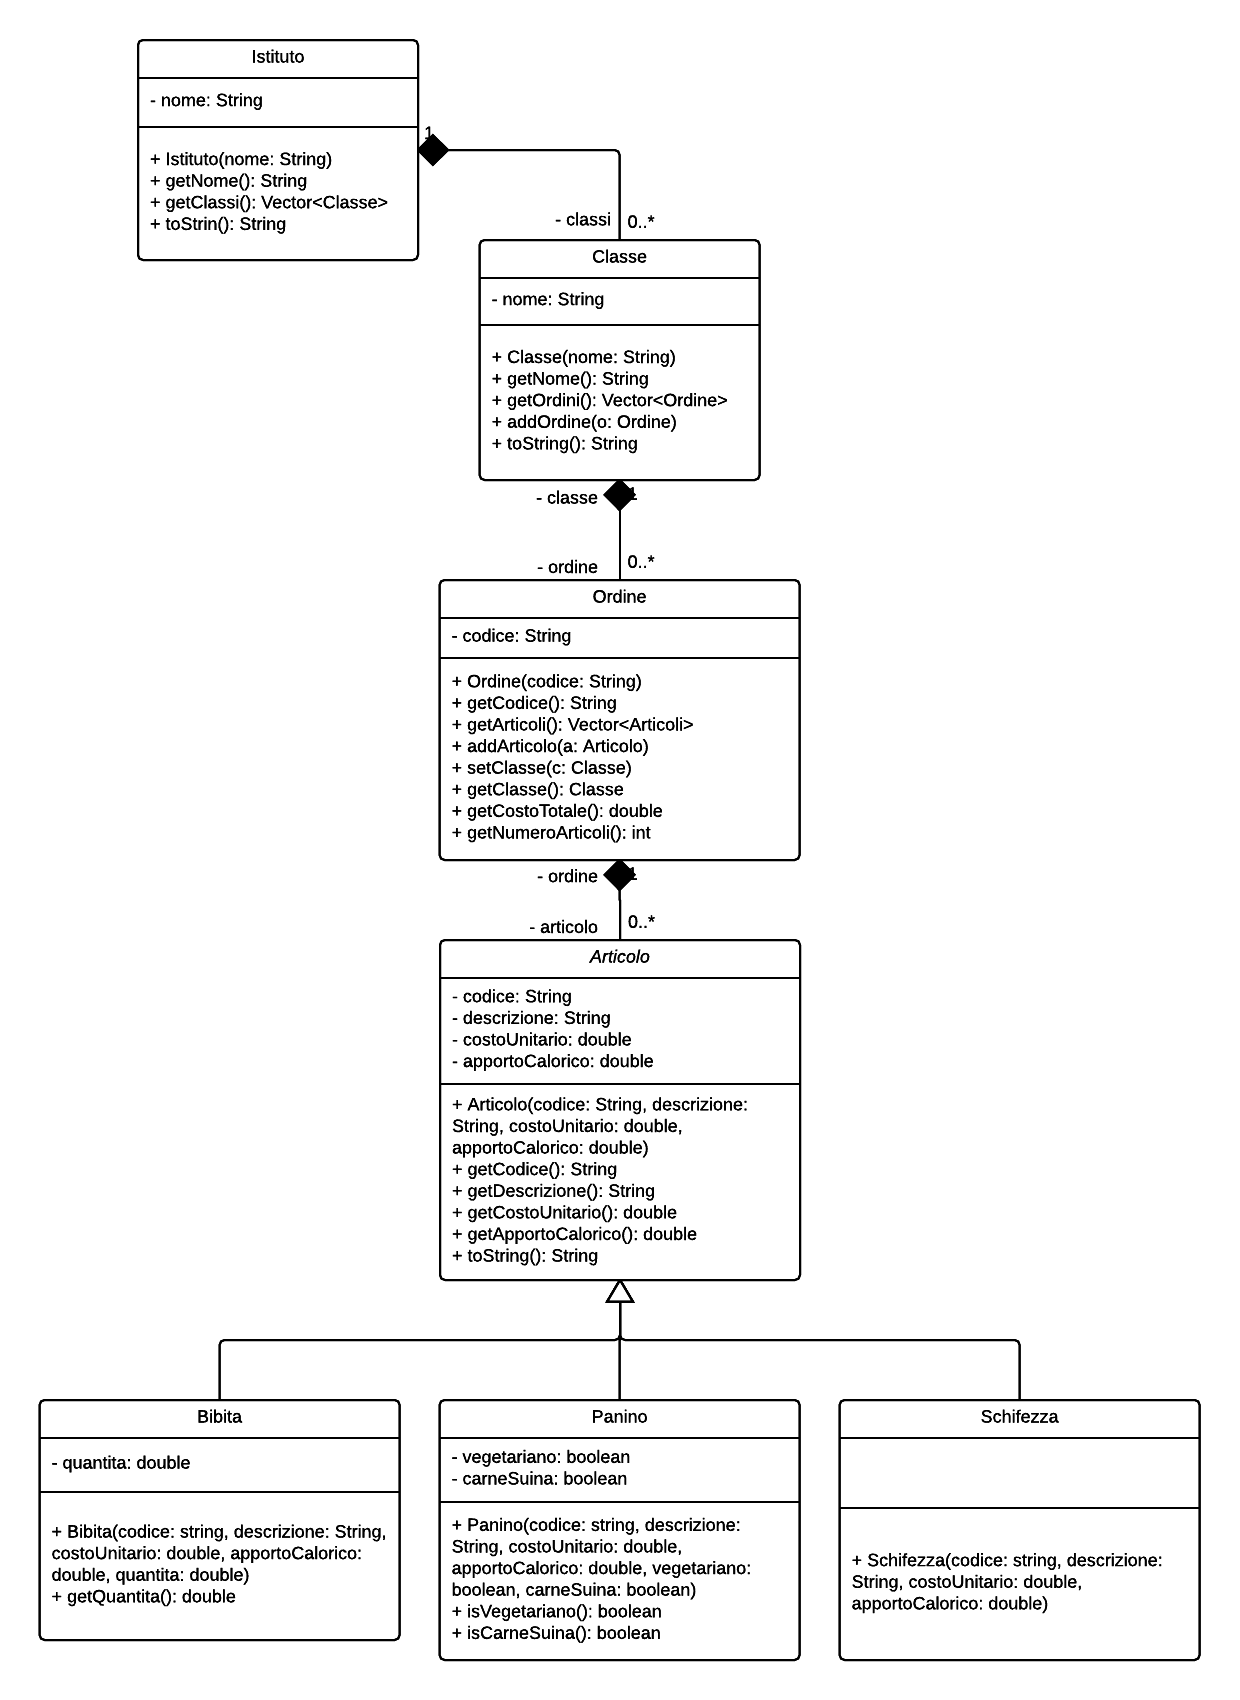
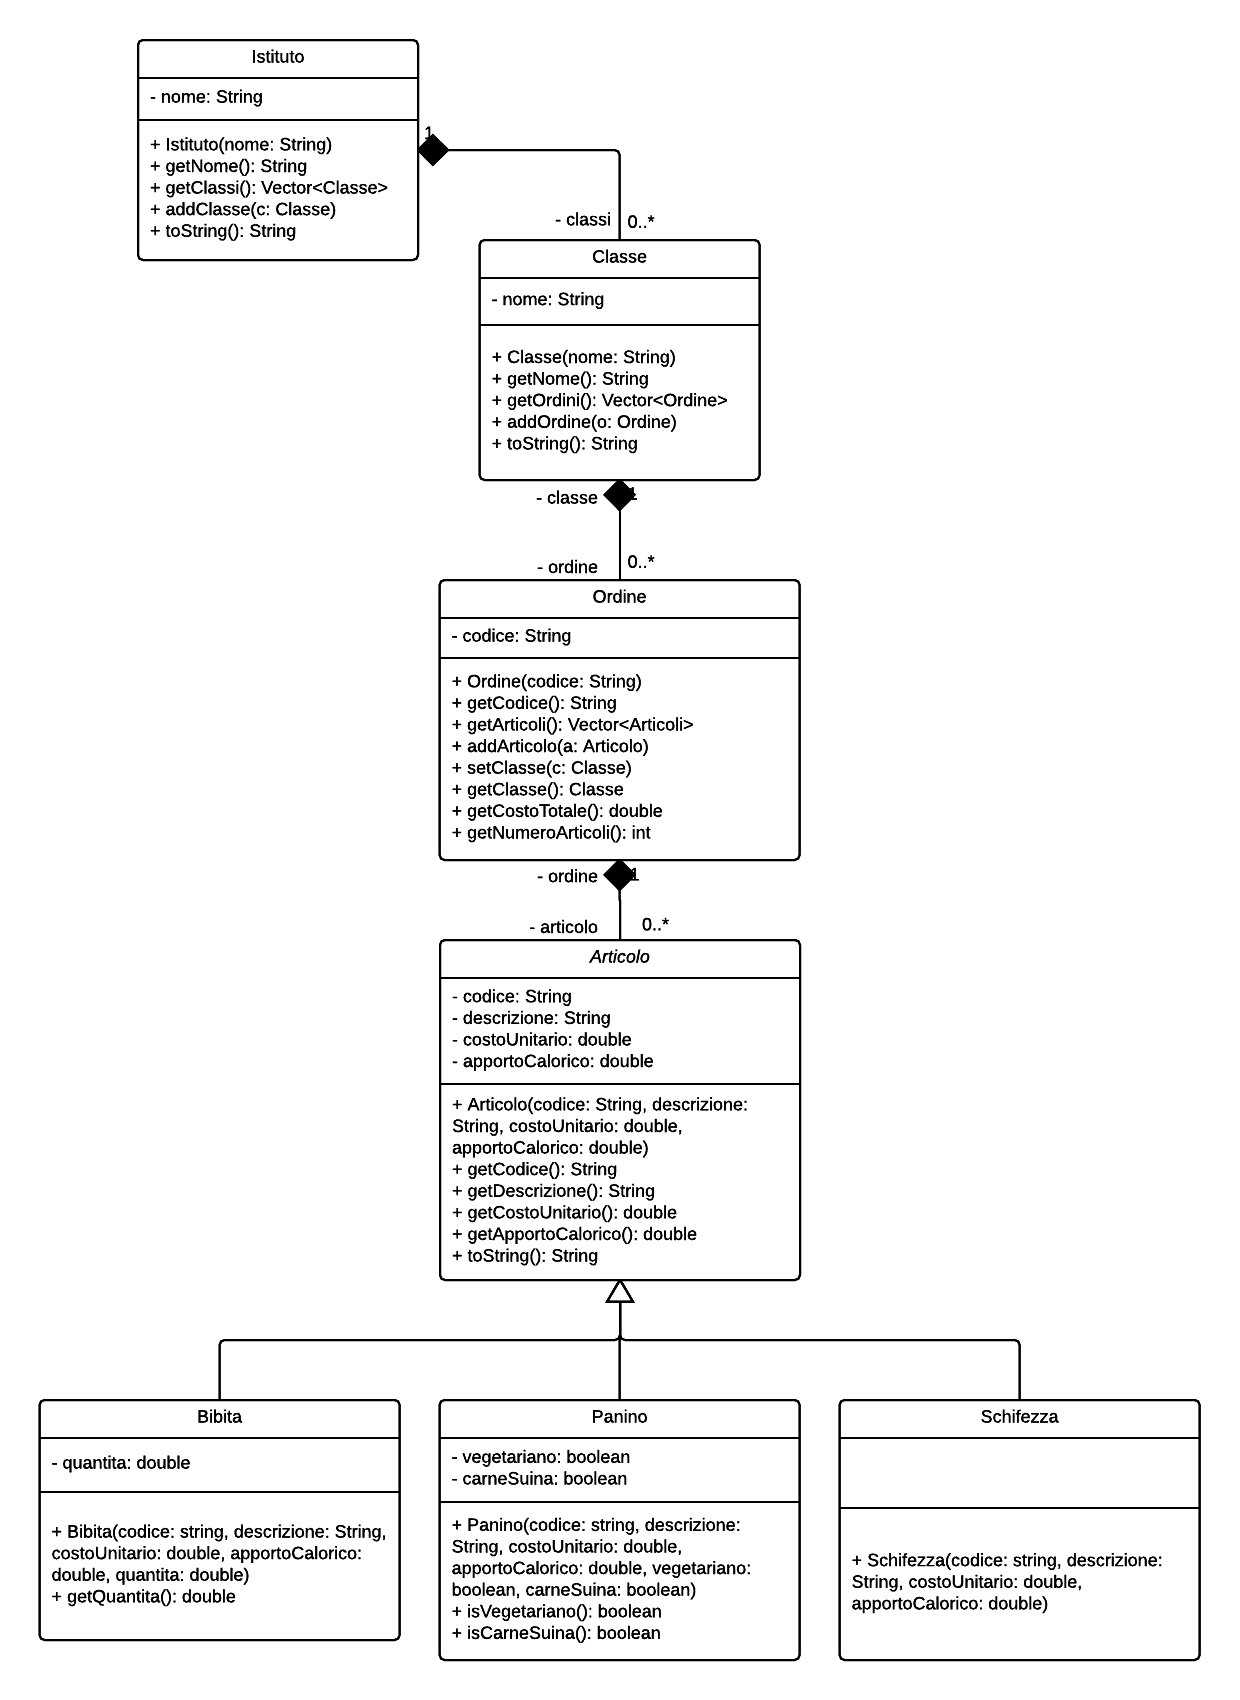
Completata

Changed region(s): [[0.1226, 0.0312, 0.3065, 0.1559]]

diff --git a/src/ese106/Ese106.java b/src/ese106/Ese106.java
@@ -1,10 +1,85 @@
 package ese106;
 
+import gestionemerende.*;
+
 public class Ese106 {
 
-	public static void main(String[] args) {
-		// TODO Auto-generated method stub
-
+	public static void main(String[] args) throws Exception {
+		Istituto volta = new Istituto("A. Volta");
+		Classe quartaAINF = new Classe("4ainf");
+		volta.addClasse(quartaAINF);
+		
+		Ordine primo = new Ordine("4ainf-20150429");
+		primo.addArticolo(new Bibita("coca30cl", "Coca-Cola", 1.5, 40, 30));
+		primo.addArticolo(new Bibita("coca30cl", "Coca-Cola", 1.5, 40, 30));
+		System.out.print("Test01a..");
+		if(primo.getNumeroArticoli() == 2)
+			System.out.println("OK");
+		else
+			System.out.println("ERRORE");
+		
+		System.out.print("Test01b..");
+		if(primo.getCostoTotale() == 3.0)
+			System.out.println("OK");
+		else
+			System.out.println("ERRORE");
+		
+		System.out.print("Test02...");
+		Panino cotoletta = null;
+		try {
+			cotoletta = new Panino("cotoletta", "Panino alla cotoletta con kectchup e maionese", 2.5, 100, true, true);
+			throw new Exception("Eccezione non lanciata");
+		}
+		catch(Exception e) {
+			if(e.getMessage().equals("You are confused..."))
+				System.out.println("OK");
+			else
+				System.out.println("ERRORE");
+		}
+		
+		System.out.print("Test03...");
+		try {
+			primo.addArticolo(cotoletta);
+			throw new Exception("Eccezione non lanciata");
+		}
+		catch(Exception e) {
+			if(e.getMessage().equals("a cannot be null"))
+				System.out.println("OK");
+			else
+				System.out.println("ERRORE");
+		}
+		
+		System.out.print("Test04...");
+		quartaAINF.addOrdine(primo);
+		if(quartaAINF.getOrdini().size() == 1)
+			System.out.println("OK");
+		else
+			System.out.println("ERRORE");
+		
+		Ordine secondo =  new Ordine("4ainf-20150430");
+		secondo.addArticolo(new Panino("cotoletta", "Panino alla cotoletta con kectchup e maionese", 2.5, 100, false, false));
+		secondo.addArticolo(new Panino("cotoletta", "Panino alla cotoletta con kectchup e maionese", 2.5, 100, false, false));
+		quartaAINF.addOrdine(secondo);
+		System.out.print("Test05...");
+		if(secondo.getClasse() == quartaAINF)
+			System.out.println("OK");
+		else
+			System.out.println("ERROR");
+		
+		System.out.print("Test06...");
+		secondo =  new Ordine("4ainf-20150430");
+		secondo.addArticolo(new Schifezza("patatine-rustiche", "Patatine molto molto grasse", 1, 200));
+		try {
+			quartaAINF.addOrdine(secondo);
+			throw new Exception("Eccezione non lanciata");
+		}
+		catch(Exception e) {
+			if(e.getMessage().equals("Ordine 4ainf-20150430 already present"))
+				System.out.println("OK");
+			else
+				System.out.println("ERRORE");
+		}
+		
 	}
 
 }

diff --git a/src/gestionemerende/Ordine.java b/src/gestionemerende/Ordine.java
@@ -1,5 +1,61 @@
 package gestionemerende;
 
-public class Ordine {
+import java.util.*;
 
+public class Ordine {
+	private String codice;
+	private Vector<Articolo> articoli;
+	private Classe classe;
+	
+	public Ordine(String codice) {
+		if(codice != null)
+			this.codice = codice;
+		else
+			throw new IllegalArgumentException("codice cannot be null");
+		
+		articoli = new Vector<Articolo>();
+	}
+
+	public Classe getClasse() {
+		return classe;
+	}
+
+	public void setClasse(Classe classe) {
+		if(classe != null)
+			this.classe = classe;
+		else
+			throw new IllegalArgumentException("classe cannot be null");
+	}
+
+	public String getCodice() {
+		return codice;
+	}
+
+	public Vector<Articolo> getArticoli() {
+		return articoli;
+	}
+	
+	public void addArticolo(Articolo a) {
+		if(a != null)
+			articoli.add(a);
+		else
+			throw new IllegalArgumentException("a cannot be null");
+	}
+	
+	public int getNumeroArticoli() {
+		return articoli.size();
+	}
+	
+	public double getCostoTotale() {
+		double r = 0;
+		for(Articolo a: articoli)
+			r += a.getCostoUnitario();
+		return r;
+	}
+
+	@Override
+	public String toString() {
+		return "Ordine [codice=" + codice + ", numeroArticoli=" + articoli.size()
+				+ ", classe=" + classe + "]";
+	}
 }

diff --git a/src/gestionemerende/Articolo.java b/src/gestionemerende/Articolo.java
@@ -1,5 +1,47 @@
 package gestionemerende;
 
 abstract public class Articolo {
+	private String codice;
+	private String descrizione;
+	private double costoUnitario;
+	private double apportoCalorico;
+	
+	public Articolo(String codice, String descrizione, double costoUnitario,
+			double apportoCalorico) {
+		if(codice != null)
+			this.codice = codice;
+		else
+			throw new IllegalArgumentException("codice cannot be null");
+		
+		if(descrizione != null)
+			this.descrizione = descrizione;
+		else
+			throw new IllegalArgumentException("descrizione cannot be null");
+		
+		if(costoUnitario > 0)
+			this.costoUnitario = costoUnitario;
+		else
+			throw new IllegalArgumentException("costoUnitario must be positive");
+		
+		if(apportoCalorico > 0)
+			this.apportoCalorico = apportoCalorico;
+		else
+			throw new IllegalArgumentException("apportoCalorico must be positive");
+	}
 
+	public String getCodice() {
+		return codice;
+	}
+
+	public String getDescrizione() {
+		return descrizione;
+	}
+
+	public double getCostoUnitario() {
+		return costoUnitario;
+	}
+
+	public double getApportoCalorico() {
+		return apportoCalorico;
+	}
 }

diff --git a/src/gestionemerende/Classe.java b/src/gestionemerende/Classe.java
@@ -1,5 +1,43 @@
 package gestionemerende;
 
-public class Classe {
+import java.util.Vector;
 
+public class Classe {
+	private String nome;
+	private Vector<Ordine> ordini;
+	
+	public Classe(String nome) {
+		if(nome != null)
+			this.nome = nome;
+		else
+			throw new IllegalArgumentException("nome cannot be null");
+		
+		ordini = new Vector<Ordine>();
+	}
+
+	public String getNome() {
+		return nome;
+	}
+
+	public Vector<Ordine> getOrdini() {
+		return ordini;
+	}
+	
+	public void addOrdine(Ordine o) throws Exception {
+		if(o != null) {
+			for(Ordine p : this.ordini) {
+				if(p.getCodice().equals(o.getCodice()))
+					throw new Exception("Ordine " + o.getCodice() + " already present");
+			}
+			ordini.add(o);
+			o.setClasse(this);
+		}
+		else
+			throw new IllegalArgumentException("o cannot be null");
+	}
+	
+	@Override
+	public String toString() {
+		return "Classe [nome=" + nome + ", numeroOrdini=" + ordini.size() + "]";
+	}
 }

diff --git a/src/gestionemerende/Istituto.java b/src/gestionemerende/Istituto.java
@@ -1,5 +1,39 @@
 package gestionemerende;
 
-public class Istituto {
+import java.util.*;
 
+public class Istituto {
+	private String nome;
+	private Vector<Classe> classi;
+	
+	public Istituto(String nome) {
+		if(nome != null)
+			this.nome = nome;
+		else
+			throw new IllegalArgumentException("nome cannot be null");
+		
+		classi = new Vector<Classe>();
+	}
+
+	public String getNome() {
+		return nome;
+	}
+
+	public Vector<Classe> getClassi() {
+		return classi;
+	}
+	
+	public void addClasse(Classe c) {
+		if(c != null)
+			this.classi.add(c);
+		else
+			throw new IllegalArgumentException("c cannot be null");
+	}
+
+	@Override
+	public String toString() {
+		return "Istituto [nome=" + nome + ", numeroClassi=" + classi.size() + "]";
+	}
+	
+	
 }

diff --git a/src/gestionemerende/Panino.java b/src/gestionemerende/Panino.java
@@ -1,5 +1,25 @@
 package gestionemerende;
 
 public class Panino extends Articolo {
+	private boolean vegetariano;
+	private boolean carneSuina;
+	
+	public Panino(String codice, String descrizione, double costoUnitario,
+			double apportoCalorico, boolean vegetariano, boolean carneSuina) {
+		super(codice, descrizione, costoUnitario, apportoCalorico);
+		if(!vegetariano && !carneSuina) {
+			this.vegetariano = vegetariano;
+			this.carneSuina = carneSuina;
+		}
+		else
+			throw new IllegalArgumentException("You are confused...");
+	}
 
+	public boolean isVegetariano() {
+		return vegetariano;
+	}
+
+	public boolean isCarneSuina() {
+		return carneSuina;
+	}
 }

diff --git a/src/gestionemerende/Bibita.java b/src/gestionemerende/Bibita.java
@@ -1,5 +1,19 @@
 package gestionemerende;
 
 public class Bibita extends Articolo {
+	private double quantita;
 
+	public Bibita(String codice, String descrizione, double costoUnitario,
+			double apportoCalorico, double quantita) {
+		super(codice, descrizione, costoUnitario, apportoCalorico);
+		
+		if(quantita > 0)
+			this.quantita = quantita;
+		else
+			throw new IllegalArgumentException("quantita must be positive");
+	}
+
+	public double getQuantita() {
+		return quantita;
+	}	
 }

diff --git a/src/gestionemerende/Schifezza.java b/src/gestionemerende/Schifezza.java
@@ -1,5 +1,8 @@
 package gestionemerende;
 
 public class Schifezza extends Articolo {
-
+	public Schifezza(String codice, String descrizione, double costoUnitario,
+			double apportoCalorico) {
+		super(codice, descrizione, costoUnitario, apportoCalorico);
+	}
 }
